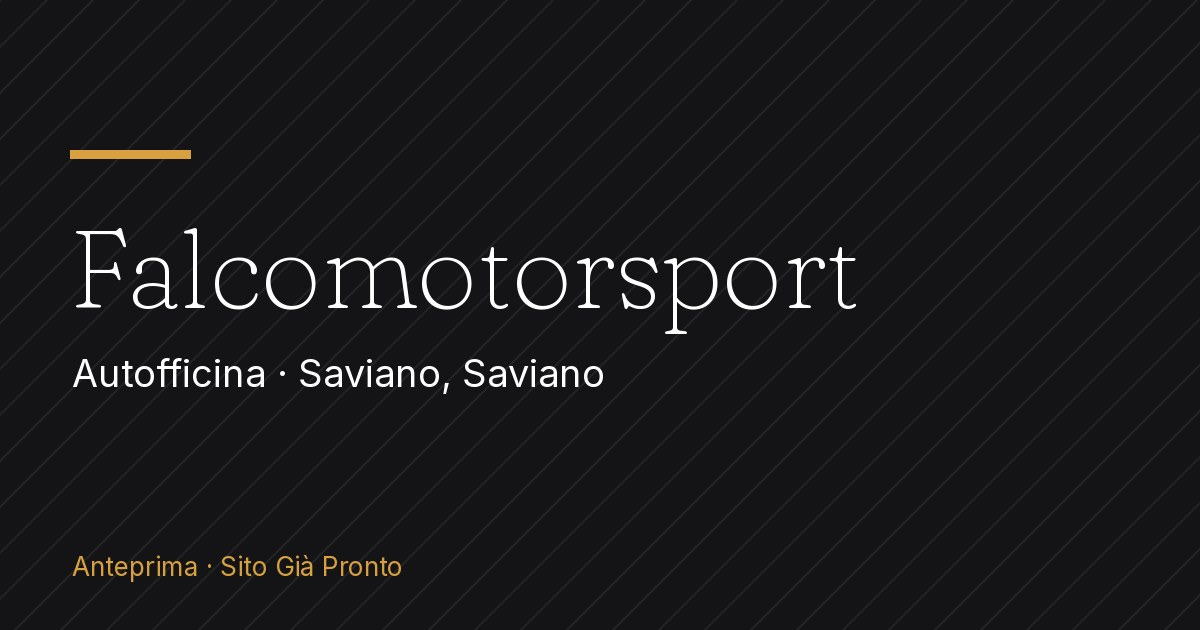
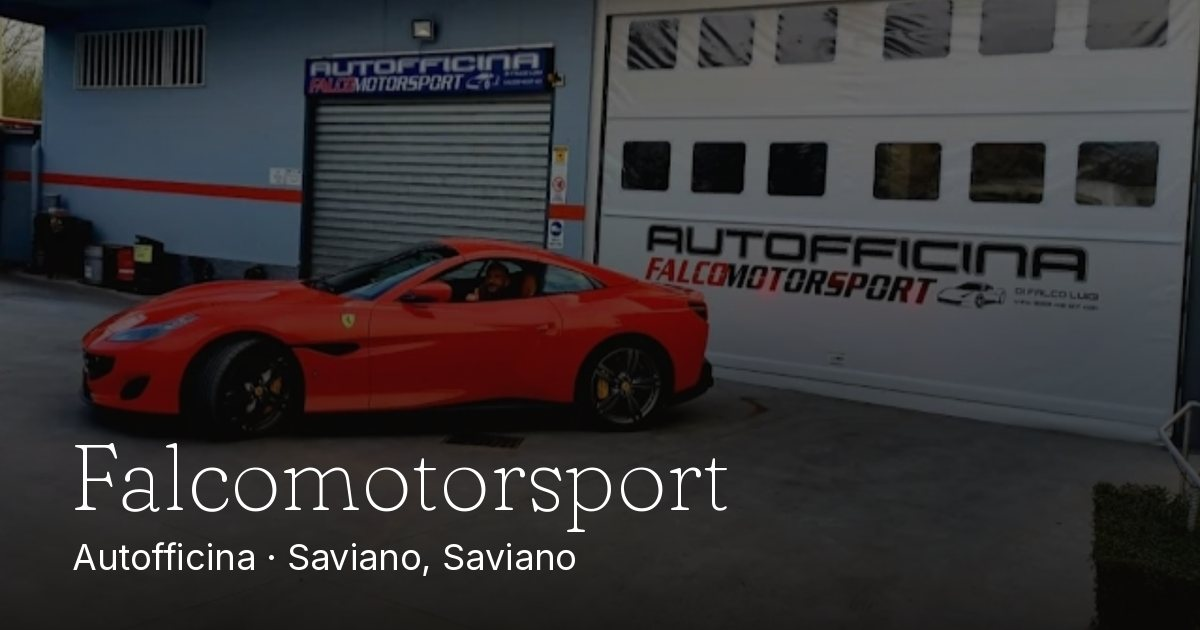
Demo: falcomotorsport-saviano

diff --git a/falcomotorsport-saviano/index.html b/falcomotorsport-saviano/index.html
@@ -4,7 +4,7 @@
 <meta charset="utf-8">
 <meta name="viewport" content="width=device-width, initial-scale=1, viewport-fit=cover">
 <title>Falcomotorsport - Autofficina a Saviano, Saviano</title>
-<meta name="description" content="Falcomotorsport, autofficina a Saviano, Via Tabacchi, 15, Saviano. Voto 4,9 su Google (79 recensioni).">
+<meta name="description" content="Falcomotorsport, autofficina a Saviano, Via Tabacchi, 15. Lun-ven 8:30-13 e 14:30-19, sabato 8:30-13. Voto 4,9 su Google (79 recensioni).">
 <meta name="robots" content="noindex, nofollow, noarchive">
 <link rel="canonical" href="https://andreachiacchio.github.io/demo-sitogiapronto/falcomotorsport-saviano/">
 <meta name="theme-color" content="#141416">
@@ -12,21 +12,21 @@
 <meta property="og:locale" content="it_IT">
 <meta property="og:site_name" content="Falcomotorsport">
 <meta property="og:title" content="Falcomotorsport - Autofficina a Saviano, Saviano">
-<meta property="og:description" content="Falcomotorsport, autofficina a Saviano, Via Tabacchi, 15, Saviano. Voto 4,9 su Google (79 recensioni).">
+<meta property="og:description" content="Falcomotorsport, autofficina a Saviano, Via Tabacchi, 15. Lun-ven 8:30-13 e 14:30-19, sabato 8:30-13. Voto 4,9 su Google (79 recensioni).">
 <meta property="og:url" content="https://andreachiacchio.github.io/demo-sitogiapronto/falcomotorsport-saviano/">
 <meta property="og:image" content="https://andreachiacchio.github.io/demo-sitogiapronto/falcomotorsport-saviano/og.jpg"><meta property="og:image:width" content="1200"><meta property="og:image:height" content="630">
 <meta name="twitter:card" content="summary_large_image">
 <link rel="icon" href="favicon.svg" type="image/svg+xml">
-<link rel="preload" href="fonts/bricolage.woff2" as="font" type="font/woff2" crossorigin><link rel="preload" href="fonts/inter.woff2" as="font" type="font/woff2" crossorigin>
+<link rel="preload" href="fonts/bricolage.woff2" as="font" type="font/woff2" crossorigin><link rel="preload" href="fonts/inter.woff2" as="font" type="font/woff2" crossorigin><link rel="preload" as="image" href="img/hero-1280.webp" imagesrcset="img/hero-800.webp 800w, img/hero-1280.webp 1280w, img/hero-1438.webp 1438w" imagesizes="100vw">
 <link rel="stylesheet" href="style.css">
-<script type="application/ld+json">{"@context": "https://schema.org", "@type": "AutoRepair", "@id": "https://andreachiacchio.github.io/demo-sitogiapronto/falcomotorsport-saviano/#attivita", "name": "Falcomotorsport", "description": "In Via Tabacchi, 15, a Saviano, Falcomotorsport è il punto di riferimento di tanti clienti: autofficina con 4,9 stelle su Google.\n\nSu Google ci date 4,9 stelle su 79 recensioni. Per informazioni scriveteci su WhatsApp o chiamateci.", "url": "https://andreachiacchio.github.io/demo-sitogiapronto/falcomotorsport-saviano/", "telephone": "+393334997421", "address": {"@type": "PostalAddress", "streetAddress": "Via Tabacchi, 15", "postalCode": "80039", "addressLocality": "Saviano", "addressRegion": "NA", "addressCountry": "IT"}, "hasMap": "https://www.google.com/maps/search/?api=1&query=Falcomotorsport%2C%20Via%20Tabacchi%2C%2015%2C%2080039%20Saviano", "openingHoursSpecification": [{"@type": "OpeningHoursSpecification", "dayOfWeek": "https://schema.org/Monday", "opens": "08:30", "closes": "19:30"}, {"@type": "OpeningHoursSpecification", "dayOfWeek": "https://schema.org/Tuesday", "opens": "08:30", "closes": "19:30"}, {"@type": "OpeningHoursSpecification", "dayOfWeek": "https://schema.org/Wednesday", "opens": "08:30", "closes": "19:30"}, {"@type": "OpeningHoursSpecification", "dayOfWeek": "https://schema.org/Thursday", "opens": "08:30", "closes": "19:30"}, {"@type": "OpeningHoursSpecification", "dayOfWeek": "https://schema.org/Friday", "opens": "08:30", "closes": "19:30"}, {"@type": "OpeningHoursSpecification", "dayOfWeek": "https://schema.org/Saturday", "opens": "08:30", "closes": "13:00"}], "areaServed": "Saviano, Saviano", "image": ["https://andreachiacchio.github.io/demo-sitogiapronto/falcomotorsport-saviano/og.jpg"]}</script>
+<script type="application/ld+json">{"@context": "https://schema.org", "@type": "AutoRepair", "@id": "https://andreachiacchio.github.io/demo-sitogiapronto/falcomotorsport-saviano/#attivita", "name": "Falcomotorsport", "description": "In Via Tabacchi, 15, a Saviano, Falcomotorsport è il punto di riferimento di tanti clienti: autofficina con 4,9 stelle su Google.\n\nSu Google ci date 4,9 stelle su 79 recensioni. Per informazioni scriveteci su WhatsApp o chiamateci.", "url": "https://andreachiacchio.github.io/demo-sitogiapronto/falcomotorsport-saviano/", "telephone": "+393334997421", "address": {"@type": "PostalAddress", "streetAddress": "Via Tabacchi, 15", "postalCode": "80039", "addressLocality": "Saviano", "addressRegion": "NA", "addressCountry": "IT"}, "hasMap": "https://www.google.com/maps/search/?api=1&query=Falcomotorsport%2C%20Via%20Tabacchi%2C%2015%2C%2080039%20Saviano", "openingHoursSpecification": [{"@type": "OpeningHoursSpecification", "dayOfWeek": "https://schema.org/Monday", "opens": "08:30", "closes": "13:00"}, {"@type": "OpeningHoursSpecification", "dayOfWeek": "https://schema.org/Monday", "opens": "14:30", "closes": "19:00"}, {"@type": "OpeningHoursSpecification", "dayOfWeek": "https://schema.org/Tuesday", "opens": "08:30", "closes": "13:00"}, {"@type": "OpeningHoursSpecification", "dayOfWeek": "https://schema.org/Tuesday", "opens": "14:30", "closes": "19:00"}, {"@type": "OpeningHoursSpecification", "dayOfWeek": "https://schema.org/Wednesday", "opens": "08:30", "closes": "13:00"}, {"@type": "OpeningHoursSpecification", "dayOfWeek": "https://schema.org/Wednesday", "opens": "14:30", "closes": "19:00"}, {"@type": "OpeningHoursSpecification", "dayOfWeek": "https://schema.org/Thursday", "opens": "08:30", "closes": "13:00"}, {"@type": "OpeningHoursSpecification", "dayOfWeek": "https://schema.org/Thursday", "opens": "14:30", "closes": "19:00"}, {"@type": "OpeningHoursSpecification", "dayOfWeek": "https://schema.org/Friday", "opens": "08:30", "closes": "13:00"}, {"@type": "OpeningHoursSpecification", "dayOfWeek": "https://schema.org/Friday", "opens": "14:30", "closes": "19:00"}, {"@type": "OpeningHoursSpecification", "dayOfWeek": "https://schema.org/Saturday", "opens": "08:30", "closes": "13:00"}], "areaServed": "Saviano, Saviano", "image": ["https://andreachiacchio.github.io/demo-sitogiapronto/falcomotorsport-saviano/og.jpg"]}</script>
 </head>
 <body data-variant="artigiano" id="top">
 <div class="notice">Anteprima gratuita del sito di <b>Falcomotorsport</b> · Sito Già Pronto</div>
-<header class="topbar"><div class="topbar-in"><a class="logo" href="#top">Falcomotorsport</a><nav class="nav"><a href="#chi-siamo">Chi siamo</a><a href="#recensioni">Recensioni</a><a href="#orari">Orari</a></nav>
+<header class="topbar"><div class="topbar-in"><a class="logo" href="#top">Falcomotorsport</a><nav class="nav"><a href="#chi-siamo">Chi siamo</a><a href="#galleria">Galleria</a><a href="#recensioni">Recensioni</a><a href="#orari">Orari</a></nav>
 <a class="top-call" href="tel:+393334997421"><svg viewBox="0 0 24 24" fill="currentColor" aria-hidden="true"><path d="M6.6 10.8a15.1 15.1 0 0 0 6.6 6.6l2.2-2.2c.3-.3.7-.4 1-.2 1.1.4 2.3.6 3.6.6.6 0 1 .4 1 1V20c0 .6-.4 1-1 1A17 17 0 0 1 3 4c0-.6.4-1 1-1h3.5c.6 0 1 .4 1 1 0 1.3.2 2.5.6 3.6.1.3 0 .7-.2 1z"/></svg><span>333 499 7421</span></a></div></header>
 <main>
-<section class="hero hero--art"><div class="hero-media" aria-hidden="true"></div><div class="wrap hero-in">
+<section class="hero"><div class="hero-media" aria-hidden="false"><img src="img/hero-1438.webp" srcset="img/hero-800.webp 800w, img/hero-1280.webp 1280w, img/hero-1438.webp 1438w" sizes="100vw" width="1438" height="946" alt="Falcomotorsport, Autofficina a Saviano" fetchpriority="high"></div><div class="wrap hero-in">
 <span class="eyebrow">Autofficina · Saviano</span>
 <h1>Falcomotorsport</h1>
 <p class="slogan">Autofficina a Saviano, in Via Tabacchi, 15.</p>
@@ -38,29 +38,32 @@
 <div class="about-text reveal"><span class="eyebrow">Saviano</span>
 <h2 style="font-size:clamp(2.1rem,5vw,3.4rem);margin:14px 0 26px">Autofficina a Saviano</h2><p>In Via Tabacchi, 15, a Saviano, Falcomotorsport è il punto di riferimento di tanti clienti: autofficina con 4,9 stelle su Google.</p><p>Su Google ci date 4,9 stelle su 79 recensioni. Per informazioni scriveteci su WhatsApp o chiamateci.</p>
 <div class="about-sign"><div><b>4,9</b><span>voto su Google</span></div><div><b>79</b><span>recensioni Google</span></div><div><b>15</b><span>Via Tabacchi</span></div></div></div>
-
-</div></section><section class="section" id="recensioni"><div class="wrap">
+<div class="about-img reveal" style="--d:.1s"><img src="img/galleria-1-1271.webp" srcset="img/galleria-1-600.webp 600w, img/galleria-1-1000.webp 1000w, img/galleria-1-1271.webp 1271w" sizes="(min-width:900px) 45vw, 100vw" width="1271" height="681" alt="Chi siamo - Falcomotorsport" loading="lazy" decoding="async"></div>
+</div></section><section class="section" id="galleria"><div class="wrap">
+<div class="section-head reveal"><span class="eyebrow">Galleria</span><h2>La nostra officina</h2></div>
+<div class="gallery"><a href="img/galleria-1-1271.webp" class="reveal" style="--d:0.00s"><img src="img/galleria-1-1271.webp" srcset="img/galleria-1-600.webp 600w, img/galleria-1-1000.webp 1000w, img/galleria-1-1271.webp 1271w" sizes="(min-width:760px) 50vw, 100vw" width="1271" height="681" alt="Lo staff di Falcomotorsport in officina a Saviano" loading="lazy" decoding="async"></a><a href="img/galleria-2-1439.webp" class="reveal" style="--d:0.06s"><img src="img/galleria-2-1439.webp" srcset="img/galleria-2-600.webp 600w, img/galleria-2-1000.webp 1000w, img/galleria-2-1439.webp 1439w" sizes="(min-width:760px) 50vw, 100vw" width="1439" height="1272" alt="Auto sportiva sul ponte - Falcomotorsport" loading="lazy" decoding="async"></a><a href="img/galleria-3-1439.webp" class="reveal" style="--d:0.12s"><img src="img/galleria-3-1439.webp" srcset="img/galleria-3-600.webp 600w, img/galleria-3-1000.webp 1000w, img/galleria-3-1439.webp 1439w" sizes="(min-width:760px) 50vw, 100vw" width="1439" height="1933" alt="Vano motore durante un intervento - Falcomotorsport" loading="lazy" decoding="async"></a><a href="img/galleria-4-1439.webp" class="reveal" style="--d:0.18s"><img src="img/galleria-4-1439.webp" srcset="img/galleria-4-600.webp 600w, img/galleria-4-1000.webp 1000w, img/galleria-4-1439.webp 1439w" sizes="(min-width:760px) 50vw, 100vw" width="1439" height="1097" alt="Motore in lavorazione - Falcomotorsport" loading="lazy" decoding="async"></a><a href="img/galleria-5-1438.webp" class="reveal" style="--d:0.00s"><img src="img/galleria-5-1438.webp" srcset="img/galleria-5-600.webp 600w, img/galleria-5-1000.webp 1000w, img/galleria-5-1438.webp 1438w" sizes="(min-width:760px) 50vw, 100vw" width="1438" height="864" alt="Diagnosi e manutenzione in officina - Falcomotorsport" loading="lazy" decoding="async"></a><a href="img/galleria-6-1438.webp" class="reveal" style="--d:0.06s"><img src="img/galleria-6-1438.webp" srcset="img/galleria-6-600.webp 600w, img/galleria-6-1000.webp 1000w, img/galleria-6-1438.webp 1438w" sizes="(min-width:760px) 50vw, 100vw" width="1438" height="810" alt="Intervento meccanico in corso - Falcomotorsport" loading="lazy" decoding="async"></a></div><p class="photo-credit">Foto: foto fornite dal titolare</p></div></section>
+<div class="lightbox" role="dialog" aria-label="Foto ingrandita"><button aria-label="Chiudi">×</button><img alt=""></div><section class="section" id="recensioni"><div class="wrap">
 <div class="reviews-top"><div class="section-head reveal" style="margin:0"><span class="eyebrow">Recensioni</span><h2>Cosa dicono di noi</h2>
 <p>Estratti da recensioni pubblicate su Google. <a href="https://www.google.com/maps/place/?q=place_id:ChIJm0_TIXixOxMRskVD8fRqpT0" target="_blank" rel="noopener">Leggile tutte →</a></p></div><div class="score reveal"><svg class="g-logo" viewBox="0 0 48 48" aria-hidden="true"><path fill="#FFC107" d="M43.6 20.5H42V20H24v8h11.3A12 12 0 1 1 24 12c3 0 5.8 1.1 7.9 3l5.7-5.7A20 20 0 1 0 44 24c0-1.2-.1-2.3-.4-3.5z"/><path fill="#FF3D00" d="M6.3 14.7l6.6 4.8A12 12 0 0 1 24 12c3 0 5.8 1.1 7.9 3l5.7-5.7A20 20 0 0 0 6.3 14.7z"/><path fill="#4CAF50" d="M24 44c5.2 0 9.9-2 13.4-5.2l-6.2-5.2A12 12 0 0 1 12.7 28l-6.5 5A20 20 0 0 0 24 44z"/><path fill="#1976D2" d="M43.6 20.5H42V20H24v8h11.3a12 12 0 0 1-4.1 5.6l6.2 5.2C37 39.2 44 34 44 24c0-1.2-.1-2.3-.4-3.5z"/></svg><div class="big">4,9</div><div><span class="stars" aria-label="4,9 su 5"><svg viewBox="0 0 24 24" fill="currentColor" aria-hidden="true"><path d="M12 2.5l2.9 6 6.6.9-4.8 4.6 1.2 6.5L12 17.4l-5.9 3.1 1.2-6.5L2.5 9.4l6.6-.9z"/></svg><svg viewBox="0 0 24 24" fill="currentColor" aria-hidden="true"><path d="M12 2.5l2.9 6 6.6.9-4.8 4.6 1.2 6.5L12 17.4l-5.9 3.1 1.2-6.5L2.5 9.4l6.6-.9z"/></svg><svg viewBox="0 0 24 24" fill="currentColor" aria-hidden="true"><path d="M12 2.5l2.9 6 6.6.9-4.8 4.6 1.2 6.5L12 17.4l-5.9 3.1 1.2-6.5L2.5 9.4l6.6-.9z"/></svg><svg viewBox="0 0 24 24" fill="currentColor" aria-hidden="true"><path d="M12 2.5l2.9 6 6.6.9-4.8 4.6 1.2 6.5L12 17.4l-5.9 3.1 1.2-6.5L2.5 9.4l6.6-.9z"/></svg><svg viewBox="0 0 24 24" fill="currentColor" aria-hidden="true"><path d="M12 2.5l2.9 6 6.6.9-4.8 4.6 1.2 6.5L12 17.4l-5.9 3.1 1.2-6.5L2.5 9.4l6.6-.9z"/></svg></span><small>79 recensioni su Google</small></div></div></div>
 <div class="rev-track"><article class="rev reveal" style="--d:0.00s"><span class="stars" aria-label="5,0 su 5"><svg viewBox="0 0 24 24" fill="currentColor" aria-hidden="true"><path d="M12 2.5l2.9 6 6.6.9-4.8 4.6 1.2 6.5L12 17.4l-5.9 3.1 1.2-6.5L2.5 9.4l6.6-.9z"/></svg><svg viewBox="0 0 24 24" fill="currentColor" aria-hidden="true"><path d="M12 2.5l2.9 6 6.6.9-4.8 4.6 1.2 6.5L12 17.4l-5.9 3.1 1.2-6.5L2.5 9.4l6.6-.9z"/></svg><svg viewBox="0 0 24 24" fill="currentColor" aria-hidden="true"><path d="M12 2.5l2.9 6 6.6.9-4.8 4.6 1.2 6.5L12 17.4l-5.9 3.1 1.2-6.5L2.5 9.4l6.6-.9z"/></svg><svg viewBox="0 0 24 24" fill="currentColor" aria-hidden="true"><path d="M12 2.5l2.9 6 6.6.9-4.8 4.6 1.2 6.5L12 17.4l-5.9 3.1 1.2-6.5L2.5 9.4l6.6-.9z"/></svg><svg viewBox="0 0 24 24" fill="currentColor" aria-hidden="true"><path d="M12 2.5l2.9 6 6.6.9-4.8 4.6 1.2 6.5L12 17.4l-5.9 3.1 1.2-6.5L2.5 9.4l6.6-.9z"/></svg></span><p>Luigi è super qualificato , svolge il suo lavoro con passione e con prezzi onesti... sempre disponibile e si fa in quattro per consegnare il lavoro a breve termine.</p><footer><span class="avatar" aria-hidden="true">I</span><div><b>Imma</b><span>Recensione Google · 6 anni fa</span></div></footer></article><article class="rev reveal" style="--d:0.08s"><span class="stars" aria-label="5,0 su 5"><svg viewBox="0 0 24 24" fill="currentColor" aria-hidden="true"><path d="M12 2.5l2.9 6 6.6.9-4.8 4.6 1.2 6.5L12 17.4l-5.9 3.1 1.2-6.5L2.5 9.4l6.6-.9z"/></svg><svg viewBox="0 0 24 24" fill="currentColor" aria-hidden="true"><path d="M12 2.5l2.9 6 6.6.9-4.8 4.6 1.2 6.5L12 17.4l-5.9 3.1 1.2-6.5L2.5 9.4l6.6-.9z"/></svg><svg viewBox="0 0 24 24" fill="currentColor" aria-hidden="true"><path d="M12 2.5l2.9 6 6.6.9-4.8 4.6 1.2 6.5L12 17.4l-5.9 3.1 1.2-6.5L2.5 9.4l6.6-.9z"/></svg><svg viewBox="0 0 24 24" fill="currentColor" aria-hidden="true"><path d="M12 2.5l2.9 6 6.6.9-4.8 4.6 1.2 6.5L12 17.4l-5.9 3.1 1.2-6.5L2.5 9.4l6.6-.9z"/></svg><svg viewBox="0 0 24 24" fill="currentColor" aria-hidden="true"><path d="M12 2.5l2.9 6 6.6.9-4.8 4.6 1.2 6.5L12 17.4l-5.9 3.1 1.2-6.5L2.5 9.4l6.6-.9z"/></svg></span><p>Luigi è molto professionale, vero appassionato delle automobili e del suo lavoro. Figlio d&#x27;arte, trova e risolve i problemi ad un prezzo assolutamente onesto.</p><footer><span class="avatar" aria-hidden="true">G</span><div><b>Gabriele</b><span>Recensione Google · 6 anni fa</span></div></footer></article><article class="rev reveal" style="--d:0.16s"><span class="stars" aria-label="5,0 su 5"><svg viewBox="0 0 24 24" fill="currentColor" aria-hidden="true"><path d="M12 2.5l2.9 6 6.6.9-4.8 4.6 1.2 6.5L12 17.4l-5.9 3.1 1.2-6.5L2.5 9.4l6.6-.9z"/></svg><svg viewBox="0 0 24 24" fill="currentColor" aria-hidden="true"><path d="M12 2.5l2.9 6 6.6.9-4.8 4.6 1.2 6.5L12 17.4l-5.9 3.1 1.2-6.5L2.5 9.4l6.6-.9z"/></svg><svg viewBox="0 0 24 24" fill="currentColor" aria-hidden="true"><path d="M12 2.5l2.9 6 6.6.9-4.8 4.6 1.2 6.5L12 17.4l-5.9 3.1 1.2-6.5L2.5 9.4l6.6-.9z"/></svg><svg viewBox="0 0 24 24" fill="currentColor" aria-hidden="true"><path d="M12 2.5l2.9 6 6.6.9-4.8 4.6 1.2 6.5L12 17.4l-5.9 3.1 1.2-6.5L2.5 9.4l6.6-.9z"/></svg><svg viewBox="0 0 24 24" fill="currentColor" aria-hidden="true"><path d="M12 2.5l2.9 6 6.6.9-4.8 4.6 1.2 6.5L12 17.4l-5.9 3.1 1.2-6.5L2.5 9.4l6.6-.9z"/></svg></span><p>L&#x27;officina Falco è una realtà rinomata nell&#x27;intero agro Nolano, i suoi punti di forza sono serietà e qualità sia nell&#x27;esecuzione che nelle componenti.</p><footer><span class="avatar" aria-hidden="true">C</span><div><b>Ciro</b><span>Recensione Google · 6 anni fa</span></div></footer></article></div></div></section><section class="section visit" id="orari"><div class="wrap">
 <div class="section-head reveal"><span class="eyebrow">Vieni a trovarci</span><h2>Orari e dove siamo</h2></div>
-<div class="visit-grid"><div class="hours reveal"><h3>Orari di apertura</h3><table><tr data-day="lun"><td>Lunedì</td><td>08:30–19:30</td></tr><tr data-day="mar"><td>Martedì</td><td>08:30–19:30</td></tr><tr data-day="mer"><td>Mercoledì</td><td>08:30–19:30</td></tr><tr data-day="gio"><td>Giovedì</td><td>08:30–19:30</td></tr><tr data-day="ven"><td>Venerdì</td><td>08:30–19:30</td></tr><tr data-day="sab"><td>Sabato</td><td>08:30–13:00</td></tr><tr data-day="dom"><td>Domenica</td><td>Chiuso</td></tr></table><p class="open-badge" style="color:var(--ink)"><i></i><span>Orari</span></p>
-<p style="color:var(--muted);font-size:.9rem;margin:6px 0 0">Orari della scheda Google: nei festivi possono cambiare, chiamateci per conferma.</p></div>
+<div class="visit-grid"><div class="hours reveal"><h3>Orari di apertura</h3><table><tr data-day="lun"><td>Lunedì</td><td>08:30–13:00<br>14:30–19:00</td></tr><tr data-day="mar"><td>Martedì</td><td>08:30–13:00<br>14:30–19:00</td></tr><tr data-day="mer"><td>Mercoledì</td><td>08:30–13:00<br>14:30–19:00</td></tr><tr data-day="gio"><td>Giovedì</td><td>08:30–13:00<br>14:30–19:00</td></tr><tr data-day="ven"><td>Venerdì</td><td>08:30–13:00<br>14:30–19:00</td></tr><tr data-day="sab"><td>Sabato</td><td>08:30–13:00</td></tr><tr data-day="dom"><td>Domenica</td><td>Chiuso</td></tr></table><p class="open-badge" style="color:var(--ink)"><i></i><span>Orari</span></p>
+<p style="color:var(--muted);font-size:.9rem;margin:6px 0 0">Orari indicati dal titolare: nei festivi possono cambiare, chiamateci per conferma.</p></div>
 <div class="where reveal" style="--d:.1s"><div class="map"><iframe title="Mappa: Falcomotorsport" src="https://maps.google.com/maps?q=Falcomotorsport%2C%20Via%20Tabacchi%2C%2015%2C%2080039%20Saviano&amp;z=16&amp;output=embed&amp;hl=it" loading="lazy" referrerpolicy="no-referrer-when-downgrade" allowfullscreen></iframe></div>
 <div class="where-in"><h3>Falcomotorsport</h3><address>Via Tabacchi, 15, 80039 Saviano, NA<br><a href="tel:+393334997421">333 499 7421</a></address>
 <div class="row"><a class="btn" href="tel:+393334997421"><svg viewBox="0 0 24 24" fill="currentColor" aria-hidden="true"><path d="M6.6 10.8a15.1 15.1 0 0 0 6.6 6.6l2.2-2.2c.3-.3.7-.4 1-.2 1.1.4 2.3.6 3.6.6.6 0 1 .4 1 1V20c0 .6-.4 1-1 1A17 17 0 0 1 3 4c0-.6.4-1 1-1h3.5c.6 0 1 .4 1 1 0 1.3.2 2.5.6 3.6.1.3 0 .7-.2 1z"/></svg>Chiama ora</a><a class="btn line" href="https://www.google.com/maps/dir/?api=1&amp;destination=Falcomotorsport%2C%20Via%20Tabacchi%2C%2015%2C%2080039%20Saviano" target="_blank" rel="noopener"><svg viewBox="0 0 24 24" fill="currentColor" aria-hidden="true"><path d="M12 2a7 7 0 0 0-7 7c0 5.2 7 13 7 13s7-7.8 7-13a7 7 0 0 0-7-7zm0 9.5a2.5 2.5 0 1 1 0-5 2.5 2.5 0 0 1 0 5z"/></svg>Indicazioni</a></div></div></div></div></div></section>
-<script type="application/json" id="orari-data">{"lun": [["08:30", "19:30"]], "mar": [["08:30", "19:30"]], "mer": [["08:30", "19:30"]], "gio": [["08:30", "19:30"]], "ven": [["08:30", "19:30"]], "sab": [["08:30", "13:00"]], "dom": []}</script><section class="section final final--art"><div class="wrap reveal"><span class="eyebrow">Saviano, Saviano</span>
+<script type="application/json" id="orari-data">{"lun": [["08:30", "13:00"], ["14:30", "19:00"]], "mar": [["08:30", "13:00"], ["14:30", "19:00"]], "mer": [["08:30", "13:00"], ["14:30", "19:00"]], "gio": [["08:30", "13:00"], ["14:30", "19:00"]], "ven": [["08:30", "13:00"], ["14:30", "19:00"]], "sab": [["08:30", "13:00"]], "dom": []}</script><section class="section final"><img src="img/galleria-2-1439.webp" srcset="img/galleria-2-600.webp 600w, img/galleria-2-1000.webp 1000w, img/galleria-2-1439.webp 1439w" sizes="100vw" width="1439" height="1272" alt="" loading="lazy" decoding="async"><div class="wrap reveal"><span class="eyebrow">Saviano, Saviano</span>
 <h2>Chiedi un preventivo</h2><p>Scrivici su WhatsApp o telefona al 333 499 7421: ti rispondiamo noi.</p>
 <div class="hero-cta"><a class="btn" href="tel:+393334997421"><svg viewBox="0 0 24 24" fill="currentColor" aria-hidden="true"><path d="M6.6 10.8a15.1 15.1 0 0 0 6.6 6.6l2.2-2.2c.3-.3.7-.4 1-.2 1.1.4 2.3.6 3.6.6.6 0 1 .4 1 1V20c0 .6-.4 1-1 1A17 17 0 0 1 3 4c0-.6.4-1 1-1h3.5c.6 0 1 .4 1 1 0 1.3.2 2.5.6 3.6.1.3 0 .7-.2 1z"/></svg>Chiama ora</a><a class="btn wa" href="https://wa.me/393334997421?text=Buongiorno%20Falcomotorsport%2C%20vi%20scrivo%20dal%20vostro%20sito%3A%20vorrei%20chiedere%20un%20preventivo." target="_blank" rel="noopener"><svg viewBox="0 0 24 24" fill="currentColor" aria-hidden="true"><path d="M17.5 14.4c-.3-.1-1.8-.9-2-1-.3-.1-.5-.1-.7.1l-.9 1.2c-.2.2-.3.2-.6.1a8.2 8.2 0 0 1-4-3.5c-.3-.5.3-.5.9-1.6.1-.2 0-.4 0-.5l-.9-2.2c-.2-.6-.5-.5-.7-.5h-.6c-.2 0-.5.1-.8.4-.3.3-1 1-1 2.5s1.1 2.9 1.2 3.1c.2.2 2.1 3.2 5.1 4.5 1.9.8 2.6.9 3.6.7.6-.1 1.8-.7 2-1.4.3-.7.3-1.3.2-1.4l-.8-.5zM12 2a10 10 0 0 0-8.6 15l-1.4 5 5.1-1.3A10 10 0 1 0 12 2zm0 18.2c-1.6 0-3.1-.4-4.4-1.2l-.3-.2-3 .8.8-2.9-.2-.3A8.2 8.2 0 1 1 12 20.2z"/></svg>WhatsApp</a></div></div></section>
 </main>
 <footer class="foot"><div class="wrap"><div class="foot-grid">
-<div><a class="logo" href="#top">Falcomotorsport</a><p style="margin:0">Autofficina a Saviano, Saviano.</p><p class="demo-note"><b>Anteprima privata, non indicizzata</b>, realizzata da Sito Già Pronto come demo gratuita: non è il sito ufficiale dell&#39;attività. Dati da fonti pubbliche: scheda Google dell&#x27;attività (indirizzo, telefono, orari, voto e recensioni). Nessuna foto dell&#39;attività: la grafica è un segnaposto in attesa delle vostre foto. Contiamo le visite in forma anonima, senza cookie. <b>Se non le interessa, ci scriva e la cancelliamo</b> (338 396 3307). In ogni caso viene cancellata entro il 19/11/2026.</p></div>
+<div><a class="logo" href="#top">Falcomotorsport</a><p style="margin:0">Autofficina a Saviano, Saviano.</p><p class="demo-note"><b>Anteprima privata, non indicizzata</b>, realizzata da Sito Già Pronto come demo gratuita: non è il sito ufficiale dell&#39;attività. Dati da fonti pubbliche: scheda Google dell&#x27;attività (telefono, voto e recensioni) e dati inviati dal titolare (orari e foto). Le foto sono quelle inviate dal titolare. Contiamo le visite in forma anonima, senza cookie. <b>Se non le interessa, ci scriva e la cancelliamo</b> (338 396 3307). In ogni caso viene cancellata entro il 19/11/2026.</p></div>
 <div><b style="color:var(--ink)">Contatti</b><p style="margin:.6em 0 0">Via Tabacchi, 15, 80039 Saviano, NA<br><a href="tel:+393334997421">333 499 7421</a></p></div>
 <div><b style="color:var(--ink)">Pagina</b><p style="margin:.6em 0 0;display:grid;gap:4px"><a href="#recensioni">Recensioni</a><a href="#orari">Orari e mappa</a></p></div>
-</div><aside class="present" aria-label="Chi ha preparato questo sito"><p class="present-title">Chi ha preparato questo sito</p><p class="present-text">Andrea Chiacchio, imprenditore di Napoli: fondatore di Farmacia Soccavo e Scodinzolando, proprietario di Villa Cristina a Praiano. I siti li ha fatti prima di tutto per le sue attività, ora li prepara per quelle del quartiere.</p><p class="present-links"><a href="https://farmaciasoccavo.it" target="_blank" rel="noopener">Farmacia Soccavo</a> · <a href="https://scodinzolando.com" target="_blank" rel="noopener">Scodinzolando</a> · <a href="https://villacristinapraiano.com" target="_blank" rel="noopener">Villa Cristina</a></p></aside><div class="foot-bottom"><span>© 2026 Falcomotorsport</span><span class="credit"><span class="legal"><b>Demo realizzata da Sito Già Pronto</b><br>Sito Già Pronto è un marchio di Villa Cristina S.R.L. – P.IVA 10969501211</span></span></div></div></footer>
+</div><aside class="present" aria-label="Chi ha preparato questo sito"><p class="present-title">Chi ha preparato questo sito</p><p class="present-text">Andrea Chiacchio, imprenditore di Napoli: fondatore di Farmacia Soccavo e Scodinzolando, gestisce Villa Cristina a Praiano. I siti li ha fatti prima di tutto per le sue attività, ora li prepara per quelle del quartiere.</p><p class="present-links"><a href="https://farmaciasoccavo.it" target="_blank" rel="noopener">Farmacia Soccavo</a> · <a href="https://scodinzolando.com" target="_blank" rel="noopener">Scodinzolando</a> · <a href="https://villacristinapraiano.com" target="_blank" rel="noopener">Villa Cristina</a></p></aside><div class="foot-bottom"><span>© 2026 Falcomotorsport</span><span class="credit"><span class="legal"><b>Demo realizzata da Sito Già Pronto</b><br>Sito Già Pronto è un marchio di Villa Cristina S.R.L. – P.IVA 10969501211</span></span></div></div></footer>
 <nav class="mbar" aria-label="Azioni rapide"><a class="call" href="tel:+393334997421"><svg viewBox="0 0 24 24" fill="currentColor" aria-hidden="true"><path d="M6.6 10.8a15.1 15.1 0 0 0 6.6 6.6l2.2-2.2c.3-.3.7-.4 1-.2 1.1.4 2.3.6 3.6.6.6 0 1 .4 1 1V20c0 .6-.4 1-1 1A17 17 0 0 1 3 4c0-.6.4-1 1-1h3.5c.6 0 1 .4 1 1 0 1.3.2 2.5.6 3.6.1.3 0 .7-.2 1z"/></svg>Chiama</a><a class="wa" href="https://wa.me/393334997421?text=Buongiorno%20Falcomotorsport%2C%20vi%20scrivo%20dal%20vostro%20sito%3A%20vorrei%20chiedere%20un%20preventivo." target="_blank" rel="noopener"><svg viewBox="0 0 24 24" fill="currentColor" aria-hidden="true"><path d="M17.5 14.4c-.3-.1-1.8-.9-2-1-.3-.1-.5-.1-.7.1l-.9 1.2c-.2.2-.3.2-.6.1a8.2 8.2 0 0 1-4-3.5c-.3-.5.3-.5.9-1.6.1-.2 0-.4 0-.5l-.9-2.2c-.2-.6-.5-.5-.7-.5h-.6c-.2 0-.5.1-.8.4-.3.3-1 1-1 2.5s1.1 2.9 1.2 3.1c.2.2 2.1 3.2 5.1 4.5 1.9.8 2.6.9 3.6.7.6-.1 1.8-.7 2-1.4.3-.7.3-1.3.2-1.4l-.8-.5zM12 2a10 10 0 0 0-8.6 15l-1.4 5 5.1-1.3A10 10 0 1 0 12 2zm0 18.2c-1.6 0-3.1-.4-4.4-1.2l-.3-.2-3 .8.8-2.9-.2-.3A8.2 8.2 0 1 1 12 20.2z"/></svg>WhatsApp</a><a href="https://www.google.com/maps/dir/?api=1&amp;destination=Falcomotorsport%2C%20Via%20Tabacchi%2C%2015%2C%2080039%20Saviano" target="_blank" rel="noopener"><svg viewBox="0 0 24 24" fill="currentColor" aria-hidden="true"><path d="M12 2a7 7 0 0 0-7 7c0 5.2 7 13 7 13s7-7.8 7-13a7 7 0 0 0-7-7zm0 9.5a2.5 2.5 0 1 1 0-5 2.5 2.5 0 0 1 0 5z"/></svg>Indicazioni</a></nav>
 <script src="app.js" defer></script>
-<script type="application/json" id="chat-data">{"slug": "falcomotorsport-saviano", "nome": "Falcomotorsport", "tipo": "artigiano", "telefono": "333 499 7421", "tel_href": "tel:+393334997421", "indirizzo": "Via Tabacchi, 15, 80039 Saviano, NA", "dir_href": "https://www.google.com/maps/dir/?api=1&destination=Falcomotorsport%2C%20Via%20Tabacchi%2C%2015%2C%2080039%20Saviano", "orari": {"lun": [["08:30", "19:30"]], "mar": [["08:30", "19:30"]], "mer": [["08:30", "19:30"]], "gio": [["08:30", "19:30"]], "ven": [["08:30", "19:30"]], "sab": [["08:30", "13:00"]], "dom": []}, "orari_testo": null, "orari_nota": "Orari della scheda Google: nei festivi possono cambiare, chiamateci per conferma.", "menu": null, "servizi": [{"titolo": "Autofficina", "testo": "Via Tabacchi, 15, Saviano."}, {"titolo": "Servizi", "testo": "Officina per macchine (dalla scheda Google)."}, {"titolo": "4,9 stelle su Google", "testo": "79 recensioni dei clienti."}, {"titolo": "Scrivici su WhatsApp", "testo": "Oppure chiama il 333 499 7421."}], "wa_prenota": "393334997421", "endpoint": ""}</script>
+<script type="application/json" id="chat-data">{"slug": "falcomotorsport-saviano", "nome": "Falcomotorsport", "tipo": "artigiano", "telefono": "333 499 7421", "tel_href": "tel:+393334997421", "indirizzo": "Via Tabacchi, 15, 80039 Saviano, NA", "dir_href": "https://www.google.com/maps/dir/?api=1&destination=Falcomotorsport%2C%20Via%20Tabacchi%2C%2015%2C%2080039%20Saviano", "orari": {"lun": [["08:30", "13:00"], ["14:30", "19:00"]], "mar": [["08:30", "13:00"], ["14:30", "19:00"]], "mer": [["08:30", "13:00"], ["14:30", "19:00"]], "gio": [["08:30", "13:00"], ["14:30", "19:00"]], "ven": [["08:30", "13:00"], ["14:30", "19:00"]], "sab": [["08:30", "13:00"]], "dom": []}, "orari_testo": null, "orari_nota": "Orari indicati dal titolare: nei festivi possono cambiare, chiamateci per conferma.", "menu": null, "servizi": [{"titolo": "Autofficina", "testo": "Via Tabacchi, 15, Saviano."}, {"titolo": "Servizi", "testo": "Officina per macchine (dalla scheda Google)."}, {"titolo": "4,9 stelle su Google", "testo": "79 recensioni dei clienti."}, {"titolo": "Scrivici su WhatsApp", "testo": "Oppure chiama il 333 499 7421."}], "wa_prenota": "393334997421", "endpoint": ""}</script>
 <script src="chat.js" defer></script>
 </body>
 </html>
